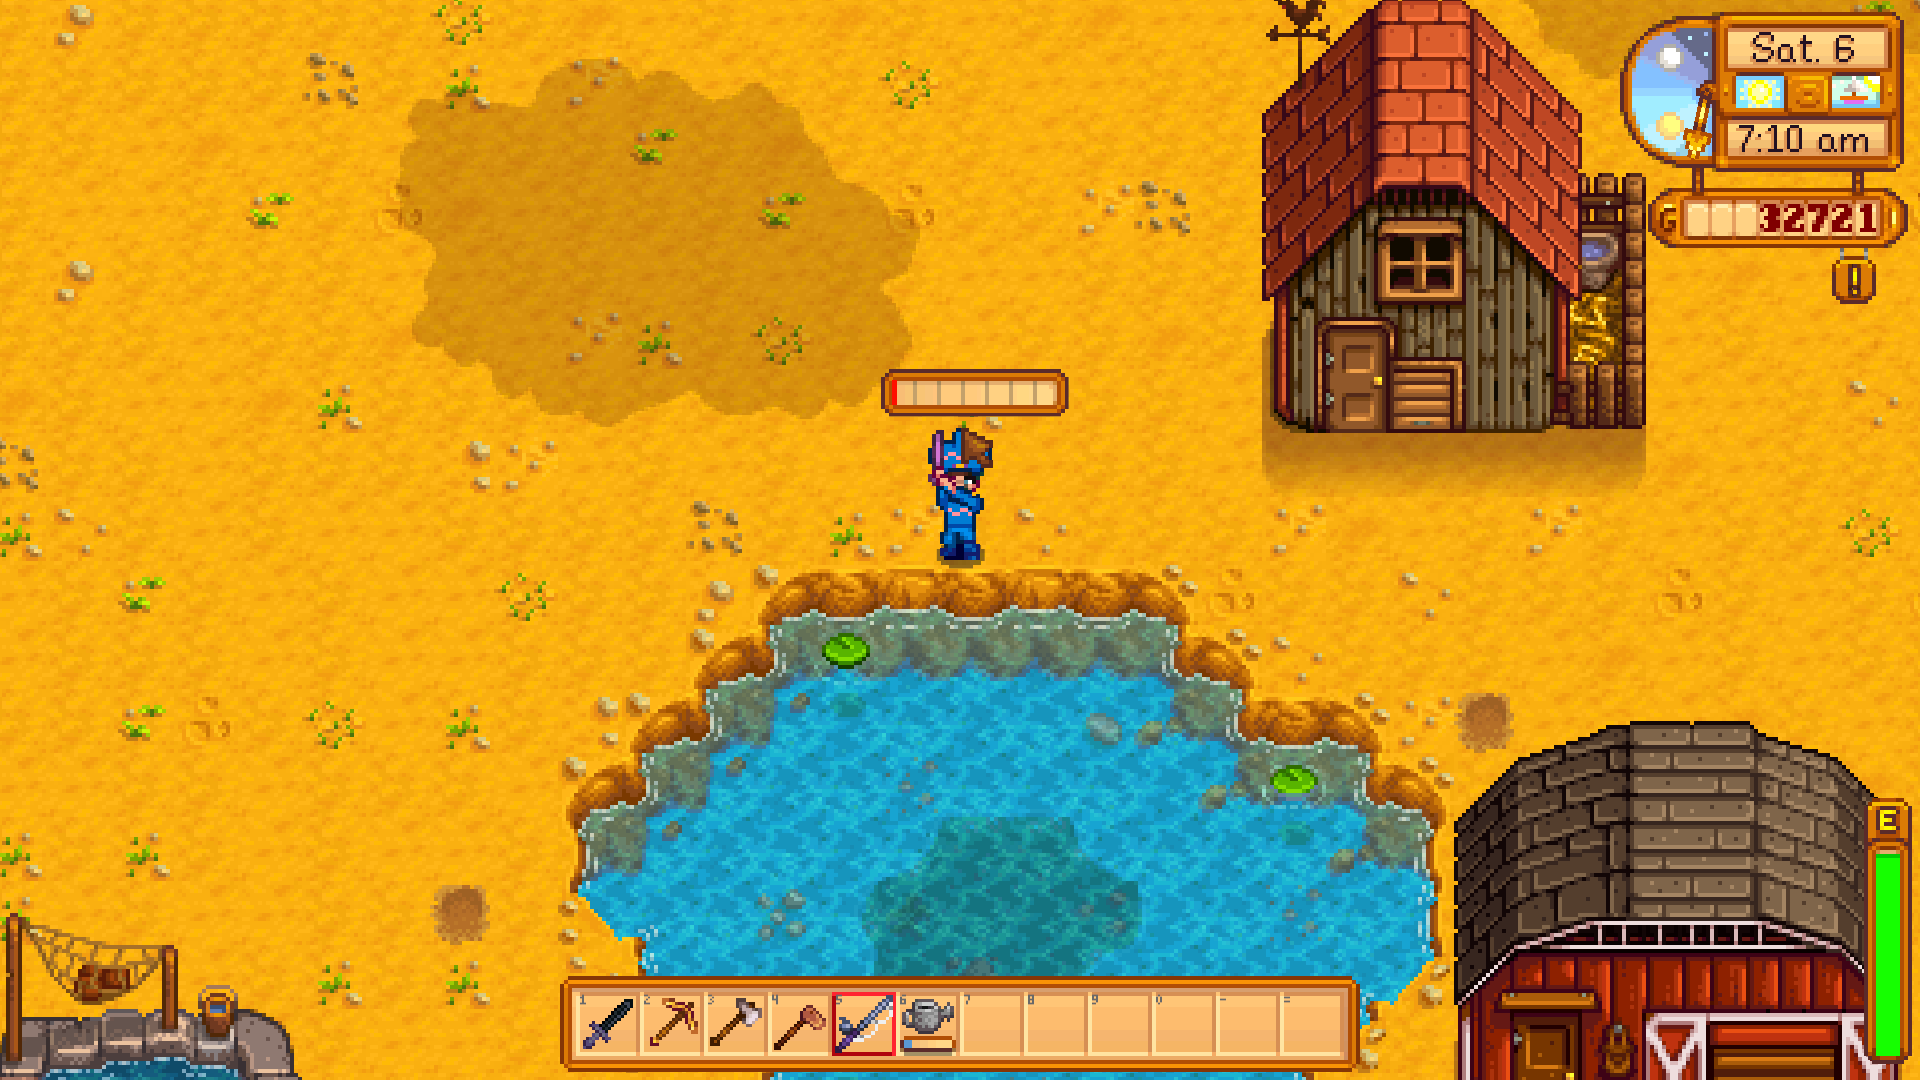
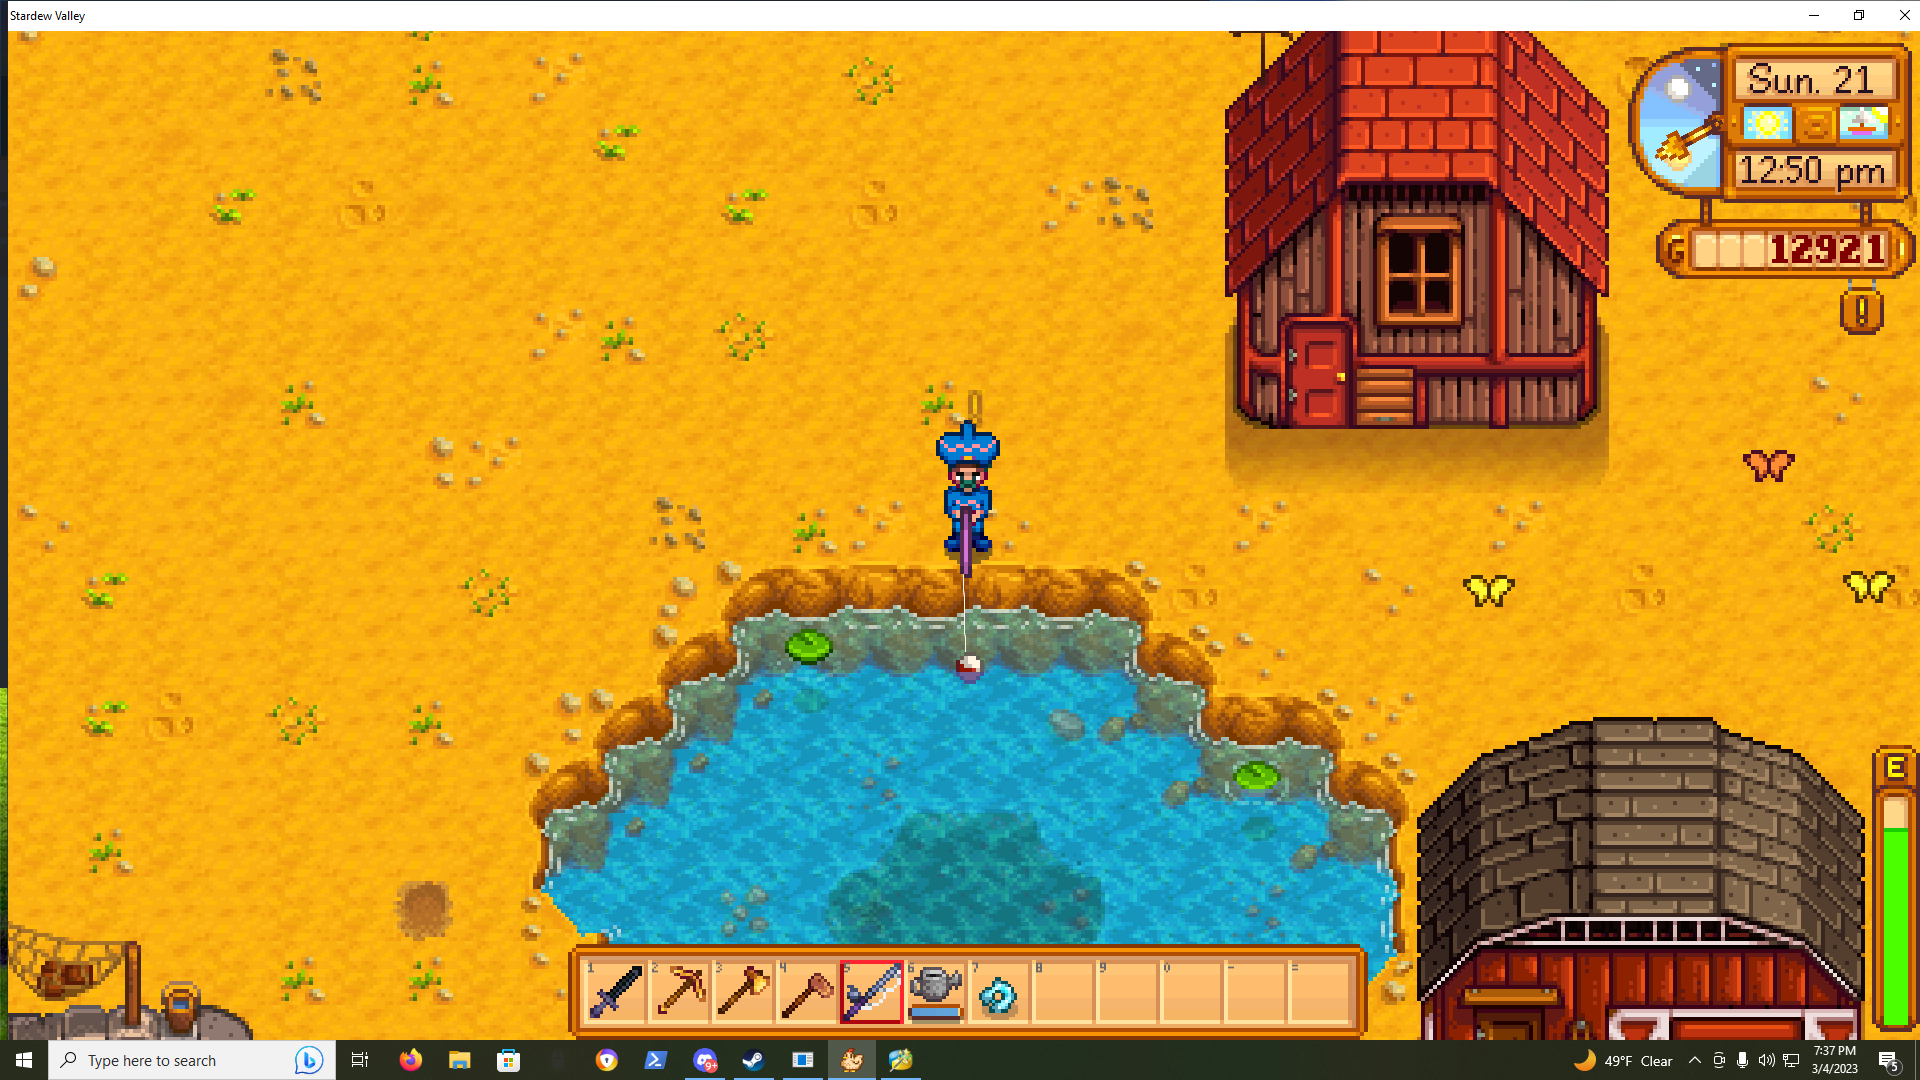
getting closer

diff --git a/Main.py b/Main.py
@@ -1,3 +1,4 @@
+# Disclamer, I took most of this code from stack overflow, i will say in the comments which parts I take
 try:
     import pyautogui
     import numpy as nm
@@ -20,9 +21,27 @@ try:
 
 
 
+
 except ModuleNotFoundError:
     print("Error: No modual found or something")
     os.abort()
+
+
+
+
+# Current script version
+version = 1.0
+
+
+
+# Here are all of the color hues that I need
+brown_color = [174,112,28]
+
+
+
+
+
+
 
 
 
@@ -31,7 +50,8 @@ keya = Controller()
 mouse = MouseController()
 
 # Gets the percent of color based on an image
-def percent_color(image:str,color_hue:list):
+# I stole this
+def percent_color(image:str,color_hue:list,silent:bool):
     # Read image
     imagePath = "./Images/"
     img = cv2.imread(imagePath+image)
@@ -104,13 +124,23 @@ def percent_color(image:str,color_hue:list):
 
         # Print the color percent, use 2 figures past the decimal point
         percent = np.round(colorPercent, 2)
-        print('red pixel percentage:', percent)
+        if silent == True:
+            pass
+        else:
+            print('Color pixel percentage:', percent)
 
         # numpy's hstack is used to stack two images horizontally,
         # so you see the various images generated in one figure:
         # cv2.imshow("images", np.hstack([img, output]))
         # cv2.waitKey(0)
         return percent
+
+
+
+
+
+
+
 
 
 
@@ -176,9 +206,11 @@ def ReleaseKey(hexKeyCode):
 
 
 
-
+# Everything else below this is my origanal code
 # This just allows you to see the position of your mouse
 def start_debug():
+    print("This is just for me to quickly get the mouse posisions")
+    sleep(3)
     while True:
         print(str(pyautogui.position()) + "\n")
         sleep(.3)
@@ -194,55 +226,94 @@ def get_energy_bar():
 
 # Fishing start
 def start_fishing():
-    # Gets the ! box that goes above the players head
-    def get_box_position():
-        print("Press U when mouse is over the players head, mainly where the ! is")
-        while True:
-            if keyboard.is_pressed('u'):
-                fish_box = pyautogui.position()
-                print(fish_box[0],fish_box[1])
-                break
-        return fish_box
+        # Gets the ! box that goes above the players head
+        def get_box_position():
+            print("Press U when mouse is over the players head, mainly where the ! is")
+            while True:
+                if keyboard.is_pressed('u'):
+                    fish_box = pyautogui.position()
+                    print(fish_box[0],fish_box[1])
+                    break
+            return fish_box
 
-    # Takes the photo of the image above the players head
-    def photo_fish_box(position:list,a):
-        x1 = position[0] - 40
-        y1 = position[1] + 40
-        x2 = position[0] + 40
-        y2 = position[1] - 40
-        image = PIL.ImageGrab.grab().crop((x1,y2,x2,y1))
-        image.save("Images/Fish_box" + str(a) + ".png")
+        # Takes the photo of the image above the players head
+        def photo_fish_box(position:list,a):
+            x1 = position[0] - 40
+            y1 = position[1] + 40
+            x2 = position[0] + 40
+            y2 = position[1] - 40
+            image = PIL.ImageGrab.grab().crop((x1,y2,x2,y1))
+            image.save("Images/Fish_box" + str(a) + ".png")
+        
+        # Casts the rod and gets max every time
+        def cast_rod():
+            PressKey(0x2E)
+            sleep(1.01)
+            ReleaseKey(0x2E)
+
+        def real_rod():
+            PressKey(0x2E)
+            sleep(.1)
+            ReleaseKey(0x2E)
+
+        fish_box = get_box_position()
+        # photo_fish_box(fish_box)
+        get_energy_bar()
+
+
+        print("Starting to fish")
+        print("Press Q to stop")
+
+
+        cast_rod()
+        sleep(1)
+        pyautogui.moveTo(500,500)
+        a = 0
+
     
-    # Casts the rod and gets max every time
-    def cast_rod():
-        PressKey(0x2E)
-        sleep(1.01)
-        ReleaseKey(0x2E)
-
-    def real_rod():
-        PressKey(0x2E)
-        sleep(.1)
-        ReleaseKey(0x2E)
-
-    fish_box = get_box_position()
-    # photo_fish_box(fish_box)
-    get_energy_bar()
 
 
-    print("Starting to fish")
-    cast_rod()
-    sleep(1)
-    pyautogui.moveTo(500,500)
-    print("Starting to take photos")
-    a = 0
-    while True:
-        if keyboard.is_pressed("k"):
-            pyautogui.click()
-            photo_fish_box(fish_box,a)
-            b = ImageGrab.grab()
-            b.save("Images/Balls.png")
-            print(a)
-            a += 1
+        while True:
+            if keyboard.is_pressed("q"):
+                print("Exiting")
+                exit()
+
+            else:
+                photo_fish_box(fish_box,a)
+                d = percent_color("Fish_box0.png",brown_color,silent=False)
+                if d > 0:
+                    print("Fish detected!!")
+                    real_rod()
+                    break
+                else:
+                    pass
+
+        sleep(3)
+        print("2")
+        keyboard.press_and_release("c")
+        while True:
+            
+            if keyboard.is_pressed("q"):
+                print("Exiting")
+                exit()
+
+            else:
+                photo_fish_box(fish_box,a)
+                d = percent_color("Fish_box0.png",brown_color,silent=False)
+                if d > 0:
+                    print("Fish detected!!")
+                    real_rod()
+                    break
+                else:
+                    pass
+
+        # PressKey(0x2E)
+        # sleep(1)
+        # ReleaseKey(0x2E)
+
+    
+            
+            
             
    
    
@@ -253,8 +324,10 @@ def start_fishing():
 
 
 
-
+# Mode ask and stuff
 while True:
+    print("\n \n \n \n \n \nStardew Vally auto script V%a" % version)
+
     auto = False
     options = input("""
     1. Fishing
@@ -275,11 +348,18 @@ while True:
 
 
 
-if auto == "Fishing":
-    start_fishing()
+# Kindof the main loop
+try:
+    if auto == "Fishing":
+        start_fishing()
 
-elif auto == "Debug":
-   start_debug()
+    elif auto == "Debug":
+        start_debug()
+
+except KeyboardInterrupt:
+    print("\n Goody Bye")
+    exit()
+
 
 
 
